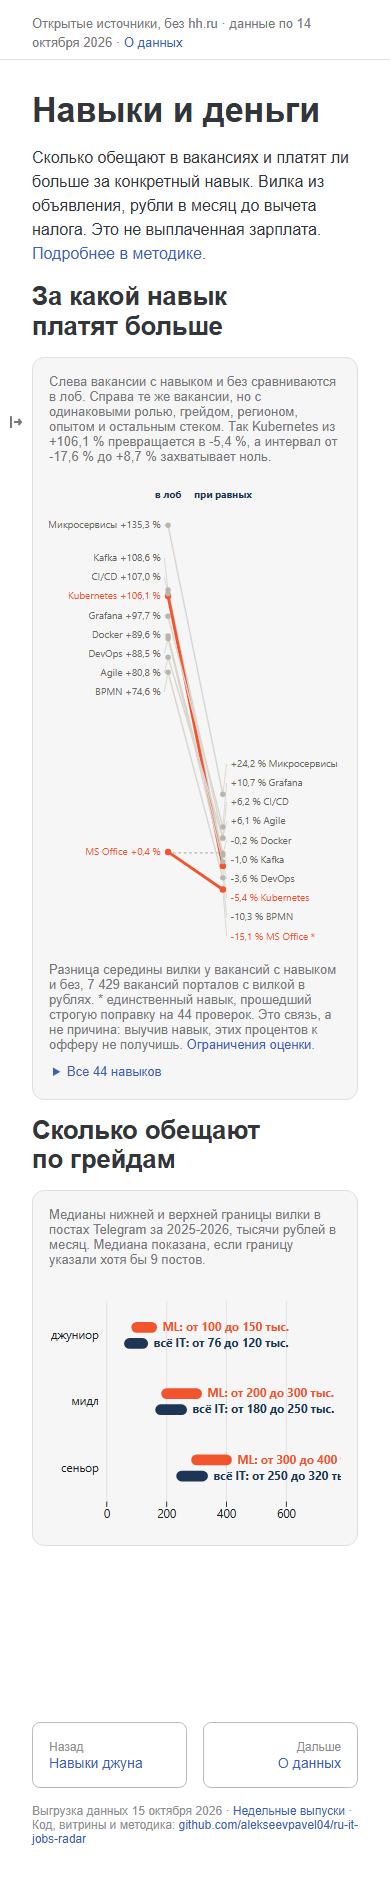
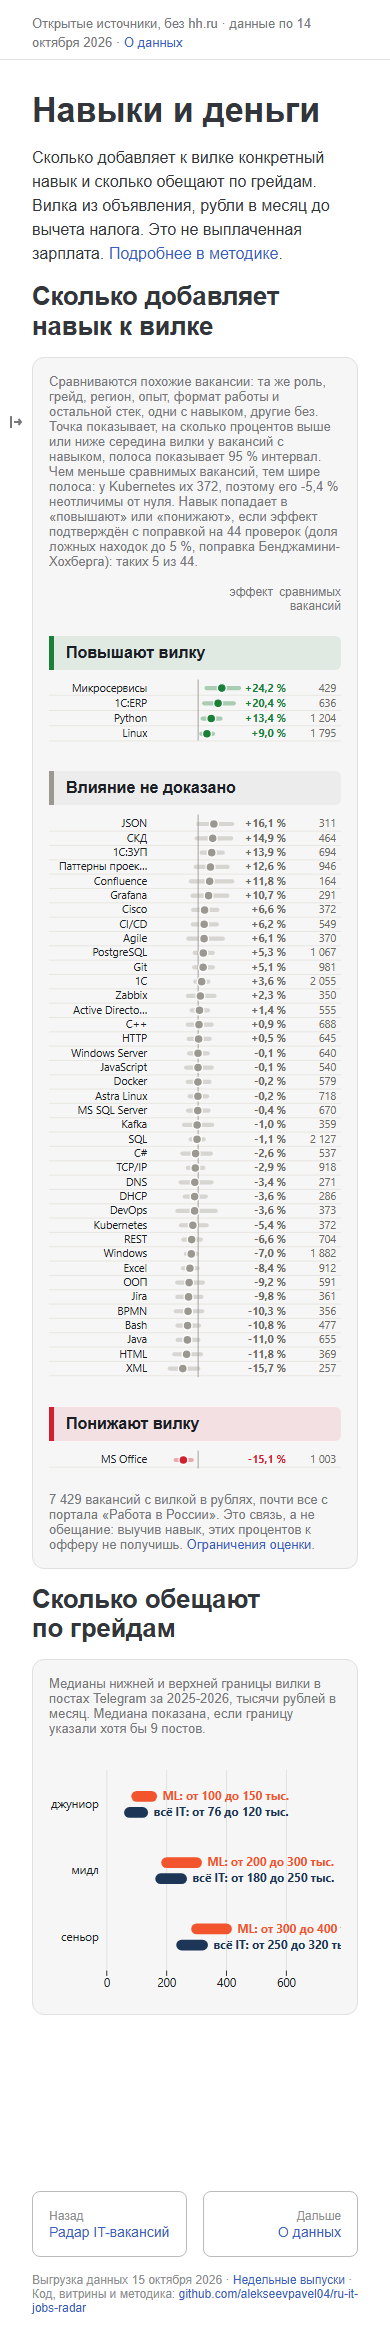
Fix rows at 16px and text at 14px with faint rules between rows; phones keep 12px

diff --git a/site/src/components/skills.js b/site/src/components/skills.js
@@ -25,6 +25,11 @@ export const DOWN = "#cf222e";
 const NOISE = "#9a9890";
 const BASE = "#8c8a84";
 
+// A faint rule between rows across the whole width, from the skill name to the numbers on the right:
+// half a row below each row's centre, so it never runs through the text.
+export const rowRules = (rows, y, {left, right, row}) =>
+  Plot.ruleY(rows, {y, dy: row / 2, stroke: "#e6e4df", strokeWidth: 1, insetLeft: -left, insetRight: -right});
+
 // Change of two shares beyond the 95 % interval of their difference (normal approximation, both samples
 // large here: hundreds to tens of thousands of posts).
 export function change(base, recent) {
@@ -60,9 +65,11 @@ function blockPlot(rows, {width, recentLabel, top, row, font}) {
     marginTop: 4,
     marginBottom: 8,
     x: {domain: [0, top * (narrow ? 1.5 : 1.12)], axis: null},
-    y: {domain: rows.map((r) => r.skill), label: null, tickSize: 0},
-    style: {fontSize: `${font}px`},
+    y: {domain: rows.map((r) => r.skill), label: null, tickSize: 0, tickFormat: (t) => (narrow && t.length > 13 ? `${t.slice(0, 12)}…` : t)},
+    // A phone keeps 12px whatever the desktop size, and cuts long names short (the tooltip has them).
+    style: {fontSize: `${narrow ? 12 : font}px`},
     marks: [
+      rowRules(rows, "skill", {left: narrow ? 96 : 160, right, row}),
       Plot.arrow(rows, {y1: "skill", y2: "skill", x1: base, x2: "share", stroke: "#bdbab2", strokeWidth: 1.6, headLength: Math.min(6, row / 4), insetStart: 5, insetEnd: dot + 2}),
       Plot.dot(rows, {y: "skill", x: base, r: Math.max(2.5, dot / 1.9), fill: BASE}),
       Plot.dot(rows, {y: "skill", x: "share", r: dot, fill: (r) => changeColor(r.change), stroke: "white", strokeWidth: 1.5}),
@@ -91,10 +98,11 @@ function nowPlot(rows, {width, recentLabel, row, font}) {
     marginTop: 4,
     marginBottom: 8,
     x: {domain: [0, top * 1.12], axis: null},
-    y: {domain: rows.map((r) => r.skill), label: null, tickSize: 0},
-    style: {fontSize: `${font}px`},
+    y: {domain: rows.map((r) => r.skill), label: null, tickSize: 0, tickFormat: (t) => (narrow && t.length > 13 ? `${t.slice(0, 12)}…` : t)},
+    // A phone keeps 12px whatever the desktop size, and cuts long names short (the tooltip has them).
+    style: {fontSize: `${narrow ? 12 : font}px`},
     marks: [
-      Plot.ruleY(rows, {y: "skill", stroke: "#ebe9e4"}),
+      rowRules(rows, "skill", {left: narrow ? 96 : 160, right: 16, row}),
       Plot.dot(rows, {y: "skill", x: "share", r: dot, fill: COLOR.bar, stroke: "white", strokeWidth: 1.5}),
       Plot.text(rows, {y: "skill", x: "share", text: (r) => pct(r.share), dx: dot + 5, textAnchor: "start", fontWeight: 650, fill: COLOR.bar}),
       Plot.tip(rows, Plot.pointerY({y: "skill", x: "share", title: (r) => `${r.skill}
@@ -103,7 +111,7 @@ ${recentLabel}: ${int(r.n)} из ${int(r.of)} (${pct(r.share)})`}))
   });
 }
 
-export function skillChart(rows, {width, recentLabel, baseYear, row = 30, font = 13}) {
+export function skillChart(rows, {width, recentLabel, baseYear, row = 16, font = 14}) {
   if (!baseYear) return nowPlot(rows, {width, recentLabel, row, font});
   const top = Math.max(...rows.map((r) => Math.max(r.share, r.base.share)));
   const legend = html`<div class="dot-legend"><span><i class="up-dot"></i><i class="down-dot"></i>сейчас, ${recentLabel}</span><span><i class="base"></i>${baseYear}</span><span>стрелка показывает, куда сдвинулась доля</span></div>`;

diff --git a/site/src/components/effects.js b/site/src/components/effects.js
@@ -4,7 +4,7 @@
 import * as Plot from "npm:@observablehq/plot";
 import {html} from "npm:htl";
 import {COLOR, int, signedPct} from "./labels.js";
-import {DOWN, UP} from "./skills.js";
+import {DOWN, UP, rowRules} from "./skills.js";
 
 const NOISE = "#9a9890";
 // The share of false findings the Benjamini-Hochberg test allows among the skills it marks.
@@ -32,8 +32,9 @@ function blockPlot(rows, {width, color, reach, name, row, font}) {
     x: {domain: [-reach, reach], axis: null},
     // On a phone a long skill name is cut short; the tooltip has it whole.
     y: {domain: rows.map(name), label: null, tickSize: 0, tickFormat: (t) => (narrow && t.length > 15 ? `${t.slice(0, 14)}…` : t)},
-    style: {fontSize: `${font}px`},
+    style: {fontSize: `${narrow ? 12 : font}px`},
     marks: [
+      rowRules(rows, name, {left: narrow ? 118 : 200, right, row}),
       Plot.ruleX([0], {stroke: "#9a9890"}),
       Plot.link(rows, {y1: name, y2: name, x1: "pct_ci_low", x2: "pct_ci_high", stroke: color, strokeOpacity: 0.35, strokeWidth: band, strokeLinecap: "round"}),
       Plot.dot(rows, {y: name, x: "pct", r: dot, fill: color, stroke: "white", strokeWidth: 1.5}),
@@ -55,7 +56,7 @@ function blockPlot(rows, {width, color, reach, name, row, font}) {
   });
 }
 
-export function effectsChart(effects, {width, name, row = 20, font = 12}) {
+export function effectsChart(effects, {width, name, row = 16, font = 14}) {
   const rows = effects.slice().sort((a, b) => b.pct - a.pct);
   const reach = Math.max(...rows.map((e) => Math.max(Math.abs(e.pct_ci_low), Math.abs(e.pct_ci_high)))) * 1.05;
   const head = html`<div class="effects-head"><span>эффект</span><span>сравнимых<br>вакансий</span></div>`;

diff --git a/site/src/salaries.md b/site/src/salaries.md
@@ -21,21 +21,15 @@ const years = FileAttachment("data/telegram_years.json").json();
 const name = (e) => SKILL[e.skill] ?? e.skill;
 const level = Math.round(effects.ci_level * 100);
 const k8s = effects.effects.find((e) => e.skill === "Kubernetes");
-// Temporary: row height and font size for the author to pick.
-const rowInput = Inputs.range([12, 32], {label: "Строка, px", step: 1, value: 20});
-const row = Generators.input(rowInput);
-const fontInput = Inputs.range([10, 15], {label: "Шрифт, px", step: 0.5, value: 12});
-const font = Generators.input(fontInput);
-```
 
-<div class="filters stacked">${rowInput}${fontInput}</div>
+```
 
 <div class="card">
 
 <p class="note-small">Сравниваются похожие вакансии: та же роль, грейд, регион, опыт, формат работы и остальной стек, одни с навыком, другие без. Точка показывает, на сколько процентов выше или ниже середина вилки у вакансий с навыком, полоса показывает ${level} % интервал. Чем меньше сравнимых вакансий, тем шире полоса: у Kubernetes их ${int(k8s.rows_kept)}, поэтому его ${signedPct(k8s.pct)} неотличимы от нуля. Навык попадает в «повышают» или «понижают», если эффект подтверждён с поправкой на ${effects.estimated} проверок (доля ложных находок до ${Math.round(FDR * 100)} %, поправка Бенджамини-Хохберга): таких ${effects.significant_bh} из ${effects.estimated}.</p>
 
 ```js
-effectsChart(effects.effects, {width, name, row, font})
+effectsChart(effects.effects, {width, name})
 ```
 
 <p class="note-small">${int(effects.rows)} вакансий с вилкой в рублях, почти все с портала «Работа в России». Это связь, а не обещание: выучив навык, этих процентов к офферу не получишь. <a href="./methodology#skill-effects">Ограничения оценки</a>.</p>

diff --git a/site/src/index.md b/site/src/index.md
@@ -21,14 +21,9 @@ const gradeInput = Inputs.radio(new Map(Object.entries(GRADE_GROUP).map(([k, v])
 const grade = Generators.input(gradeInput);
 const sortInput = Inputs.radio(new Map([["по доле", "share"], ["по росту", "growth"]]), {label: "Порядок", value: "share"});
 const sortBy = Generators.input(sortInput);
-// Temporary: row height and font size for the author to pick.
-const rowInput = Inputs.range([12, 32], {label: "Строка, px", step: 1, value: 20});
-const row = Generators.input(rowInput);
-const fontInput = Inputs.range([10, 15], {label: "Шрифт, px", step: 0.5, value: 12});
-const font = Generators.input(fontInput);
 ```
 
-<div class="filters stacked">${directionInput}${gradeInput}${sortInput}${rowInput}${fontInput}</div>
+<div class="filters stacked">${directionInput}${gradeInput}${sortInput}</div>
 
 ```js
 const cell = `${direction}_${grade}`;
@@ -59,7 +54,7 @@ ${!posts.size
 
 ```js
 // Always display a node: a block that displays nothing keeps its previous output.
-display(posts.size ? skillChart(ordered, {width, recentLabel, baseYear, row, font}) : document.createElement("span"));
+display(posts.size ? skillChart(ordered, {width, recentLabel, baseYear}) : document.createElement("span"));
 ```
 
 </div>
